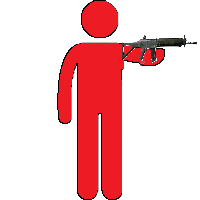
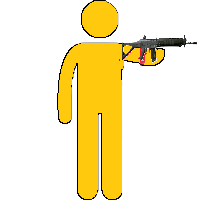
img colors characters

Changed region(s): [[0.27, 0.0, 0.84, 1.0]]

diff --git a/src/Game.py b/src/Game.py
@@ -263,7 +263,7 @@ class Game:
                     self.player1.modifImage(self.image_player1_left)
                 if keys[pygame.K_d]:
                     self.player1.goRight()
-                    self.player1.modifImage(self.image_player2_right)
+                    self.player1.modifImage(self.image_player1_right)
                 if keys[pygame.K_w]:
                     self.player1.jump(time.time())
                 if keys[pygame.K_s]:
@@ -338,7 +338,7 @@ class Game:
     def reloadPage(self):
         if not self.paused:
             pygame.mouse.set_visible(False)
-            self.window_game.changeBg('images/imgBackgrounds/gamePageBgs/gameBgs/img_bg_game.png')
+            self.window_game.changeBg('images/imgBackgrounds/gamePageBgs/gameBgs/test_blue_bg.jpg')
 
             for weapon in self.weapon_gun :
                 weapon.draw()
@@ -404,9 +404,6 @@ class Game:
 
             pygame.mouse.set_visible(True)
             self.window_game.stop()
-
-            self.window_game.scores_player1(self.font, self.score_player1)
-            self.window_game.scores_player2(self.font, self.score_player2)
 
 
         pygame.display.flip()
